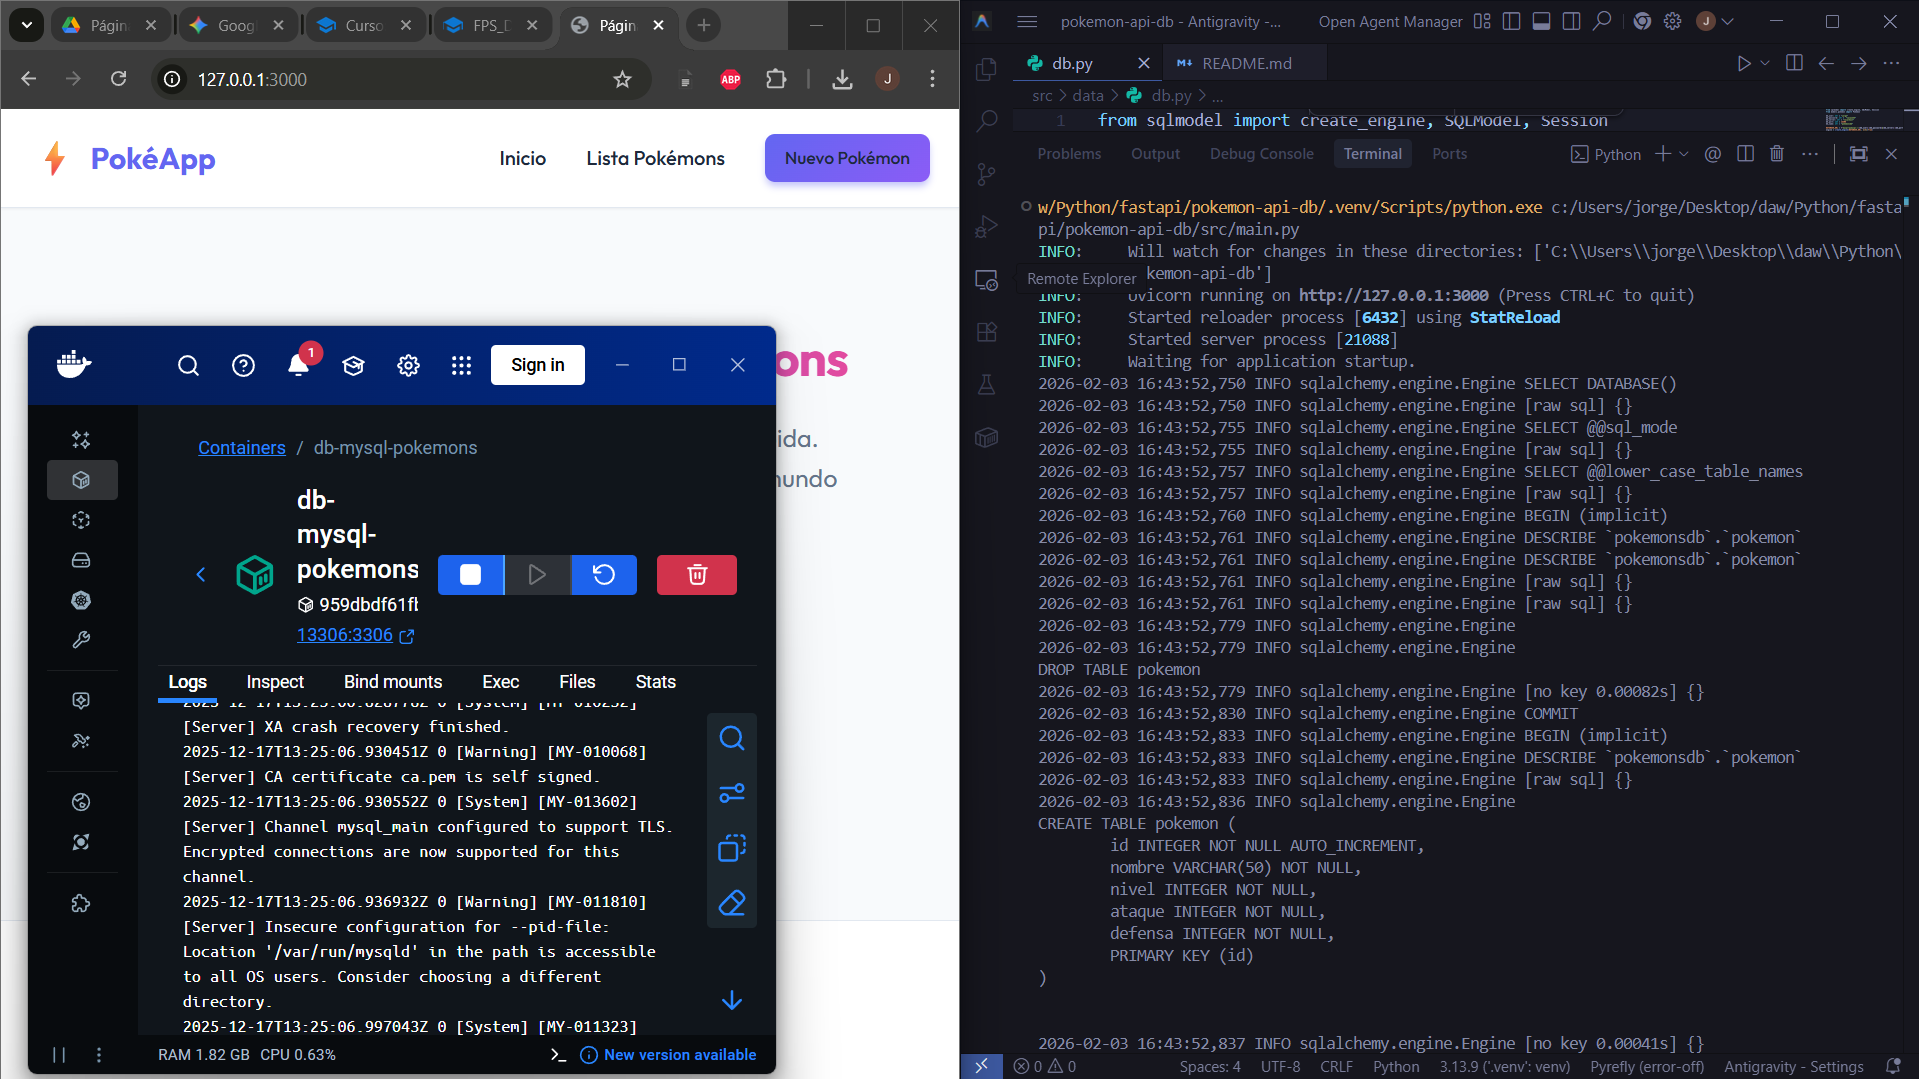
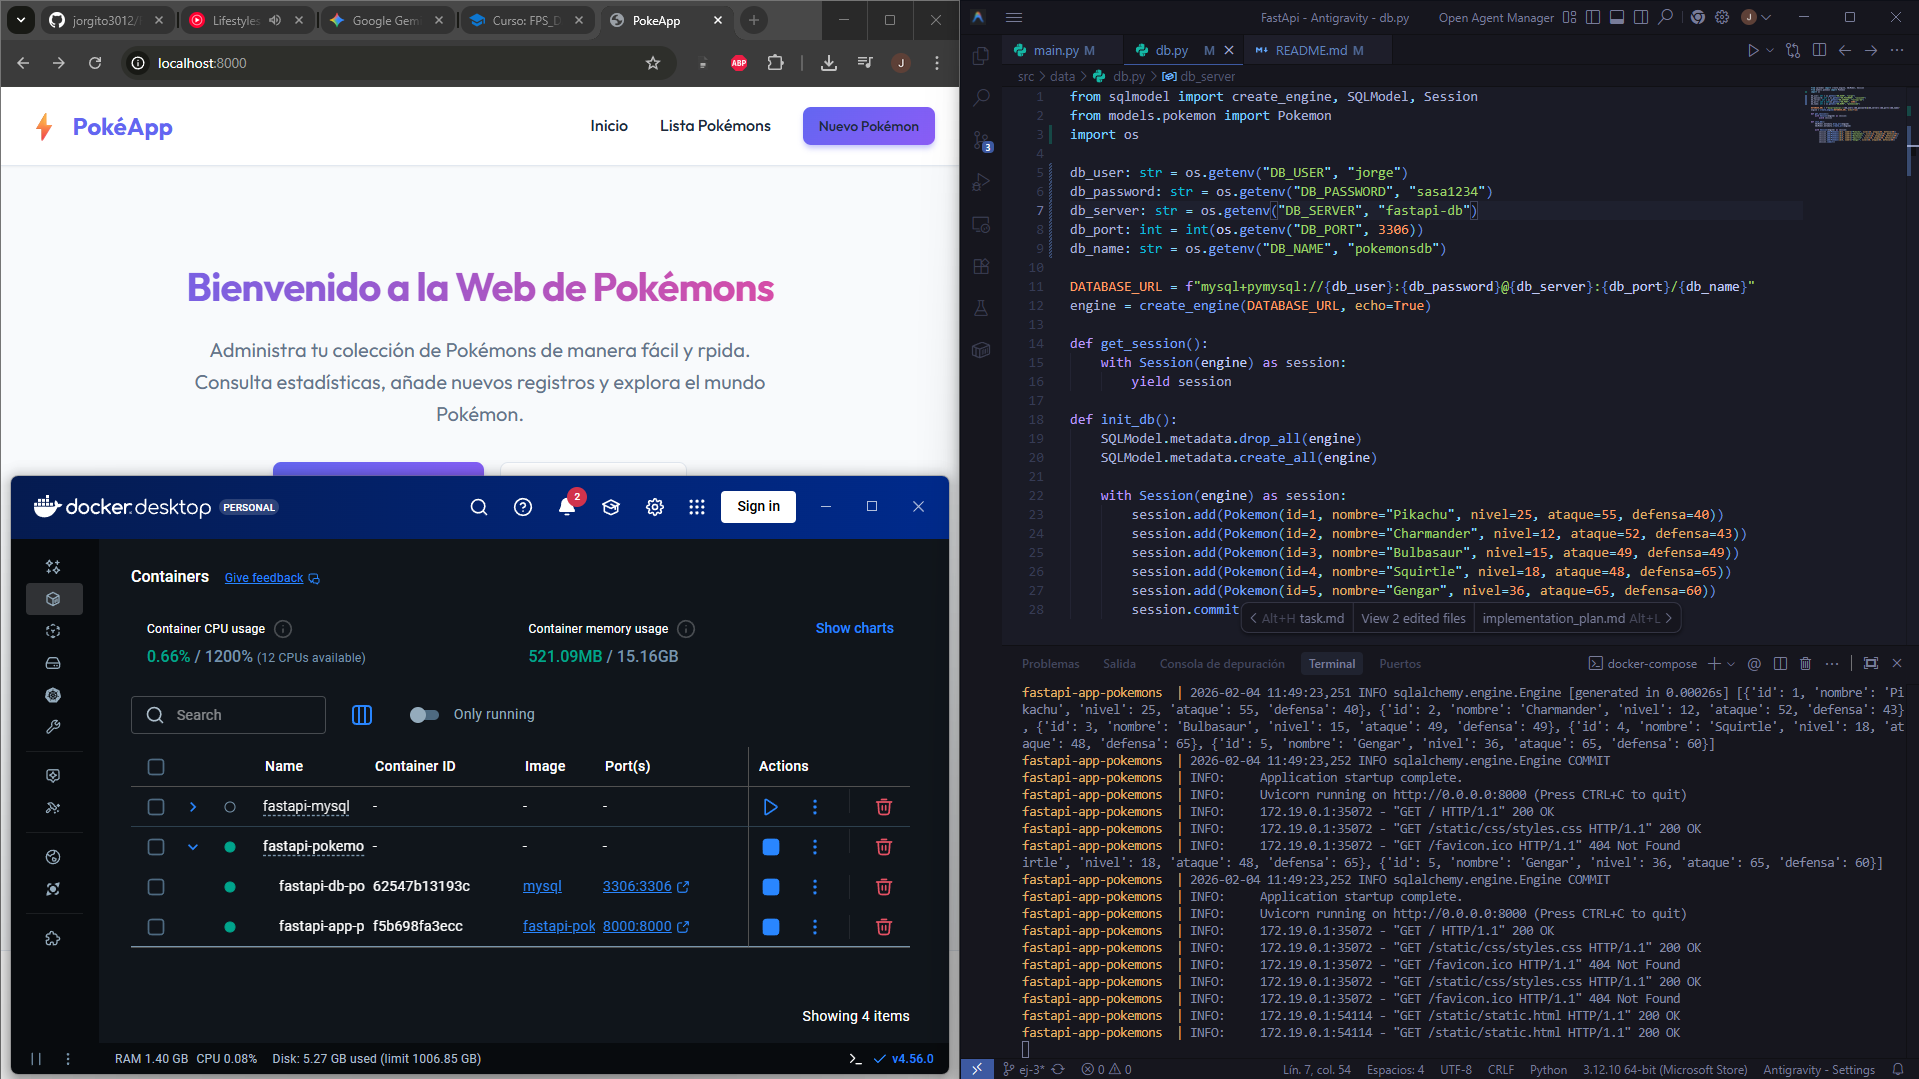
Terminado el ejercicio 3

Changed region(s): [[0.0, 0.0, 1.0, 1.0], [0.8916, 0.0306, 1.0, 0.1529], [0.8301, 0.1223, 0.8609, 0.1529]]

diff --git a/src/data/db.py b/src/data/db.py
@@ -1,11 +1,12 @@
 from sqlmodel import create_engine, SQLModel, Session
 from models.pokemon import Pokemon
+import os
 
-db_user: str = "jorge"  
-db_password: str =  "sasa1234"
-db_server: str = "localhost" 
-db_port: int = 13306  
-db_name: str = "pokemonsdb"  
+db_user: str = os.getenv("DB_USER", "jorge")
+db_password: str = os.getenv("DB_PASSWORD", "sasa1234")
+db_server: str = os.getenv("DB_SERVER", "fastapi-db")
+db_port: int = int(os.getenv("DB_PORT", 3306))
+db_name: str = os.getenv("DB_NAME", "pokemonsdb")
 
 DATABASE_URL = f"mysql+pymysql://{db_user}:{db_password}@{db_server}:{db_port}/{db_name}"
 engine = create_engine(DATABASE_URL, echo=True)

diff --git a/src/main.py b/src/main.py
@@ -23,8 +23,8 @@ SessionDep = Annotated[Session, Depends(get_session)]
 
 app = FastAPI(lifespan=lifespan)
 
-app.mount("/static", StaticFiles(directory="src/static"), name="static")
-templates = Jinja2Templates(directory="src/templates")
+app.mount("/static", StaticFiles(directory="static"), name="static")
+templates = Jinja2Templates(directory="templates")
 
 app.include_router(api_pokemons_router)
 

diff --git a/FUNCIONAMIENTO/README.md b/FUNCIONAMIENTO/README.md
@@ -5,7 +5,8 @@ Una aplicación web moderna para gestionar una colección de Pokémon, construid
 ## 🚀 Tecnologías
 
 *   **Backend**: Python, FastAPI
-*   **Base de Datos**: SQLModel (SQLite)
+*   **Base de Datos**: MySQL (manejada via Docker)
+*   **Contenedorización**: Docker & Docker Compose
 *   **Frontend**: HTML5, Jinja2 Templates, CSS3 (Variables, Flexbox/Grid)
 *   **Diseño**: Interfaz "Premium" con diseño responsivo y animaciones.
 
@@ -13,43 +14,33 @@ Una aplicación web moderna para gestionar una colección de Pokémon, construid
 
 *   **Listado de Pokémon**: Visualiza todos tus pokémon en una tabla estilizada.
 *   **Detalle de Pokémon**: Tarjetas individuales con estadísticas visuales (Nivel, Ataque, Defensa).
-*   **Gestión**: Formulario para registrar nuevos Pokémon en la base de datos.
+*   **Gestión**: Formulario para registrar nuevos Pokémon en la base de datos MySQL.
+*   **Entorno Dev**: Configuración lista para usar con Docker Compose.
 *   **UI Moderna**:
     *   Barra de navegación responsiva.
     *   Paleta de colores moderna (Violeta/Indigo).
     *   Tipografía 'Outfit' de Google Fonts.
     *   Efectos Hover y micro-interacciones.
 
-## 🛠 Instalación y Uso
+## 🛠 Instalación y Uso (Docker)
+
+La forma recomendada de ejecutar este proyecto es utilizando **Docker Desktop**.
 
 1.  **Clonar el repositorio** (o descargar los archivos).
-2.  **Crear un entorno virtual**:
+2.  **Asegurarse de tener Docker Desktop iniciado**.
+3.  **Ejecutar la aplicación**:
+    Abre una terminal en la carpeta `FastApi` (donde está el `docker-compose.yml`) y ejecuta:
     ```bash
-    python -m venv .venv
-    # Windows
-    .\.venv\Scripts\activate
-    # Mac/Linux
-    source .venv/bin/activate
+    docker-compose up --build
     ```
-3.  **Instalar dependencias**:
-    ```bash
-    pip install fastapi uvicorn sqlmodel jinja2 python-multipart
-    ```
-4.  **Ejecutar la aplicación**:
-    El archivo principal se encuentra en `src/main.py`. Asegúrate de ejecutarlo desde la raíz del proyecto o ajustando el path.
-    ```bash
-    # Ejemplo desde la raíz
-    python src/main.py
-    ```
-    O usando uvicorn directamente si se prefiere:
-    ```bash
-    uvicorn src.main:app --reload
-    ```
-5.  **Abrir en el navegador**:
-    Visita `http://127.0.0.1:3000`
+4.  **Abrir en el navegador**:
+    Visita `http://localhost:8000`
+
+> **Nota**: La base de datos MySQL se crea e inicializa automáticamente dentro de su propio contenedor. No necesitas instalar nada extra en tu ordenador.
 
 ## 📂 Estructura del Proyecto
 
+*   `Dockerfile` / `docker-compose.yml`: Configuración para despliegue en contenedores.
 *   `src/main.py`: Punto de entrada de la aplicación.
 *   `src/data/`: Configuración de base de datos y repositorios.
 *   `src/models/`: Modelos de datos (SQLModel).
